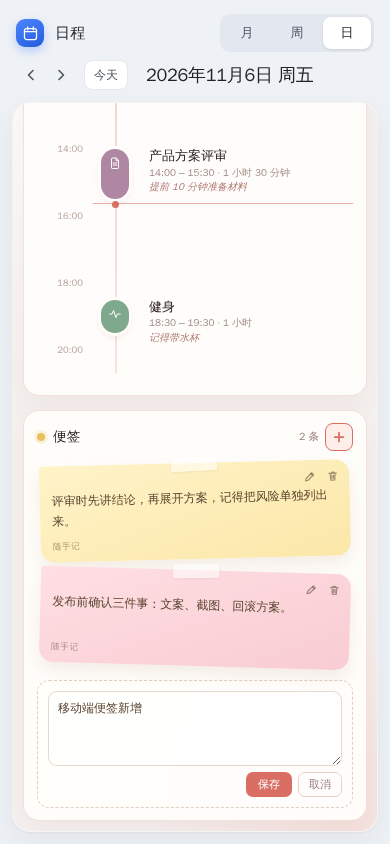
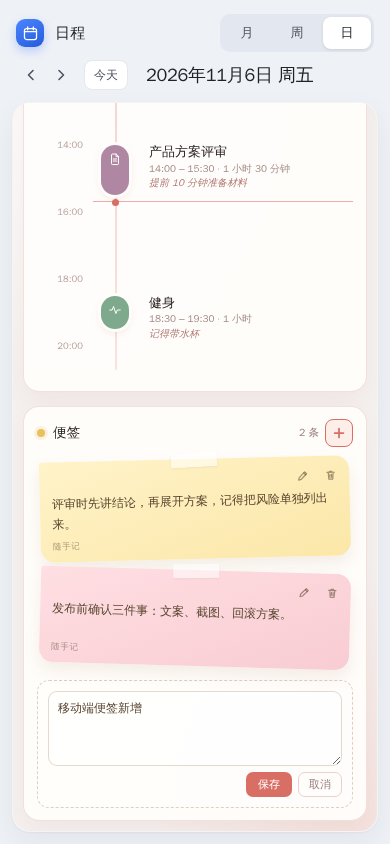
style(inbox): enlarge edit and delete hit areas
Keep the note header clear of the taller controls and refresh the after screenshots.

diff --git a/src/modules/inbox/styles.css b/src/modules/inbox/styles.css
@@ -50,7 +50,7 @@
   display: flex;
   flex: none;
   align-items: center;
-  gap: 1px;
+  gap: 2px;
   opacity: 0.55;
   transition: opacity 0.15s ease;
 }
@@ -62,9 +62,10 @@
 
 .mod-inbox-icon-btn {
   display: grid;
+  flex: none;
   place-items: center;
-  width: 22px;
-  height: 22px;
+  width: 26px;
+  height: 26px;
   padding: 0;
   border: 0;
   border-radius: 6px;
@@ -86,7 +87,7 @@
 
 .mod-inbox-icon-btn.is-confirming {
   width: auto;
-  min-width: 52px;
+  min-width: 56px;
   padding: 0 5px;
   background: #fdecea;
   color: #d84a43;
@@ -187,7 +188,7 @@
 /* notes editing / adding ----------------------------------------------- */
 
 .mod-inbox-note {
-  padding-top: 25px;
+  padding-top: 32px;
 }
 
 .mod-inbox-note > p {
@@ -197,10 +198,10 @@
 
 .mod-inbox-note-actions {
   position: absolute;
-  top: 5px;
+  top: 6px;
   right: 6px;
   display: flex;
-  gap: 1px;
+  gap: 2px;
 }
 
 .mod-inbox-note .mod-inbox-icon-btn {
